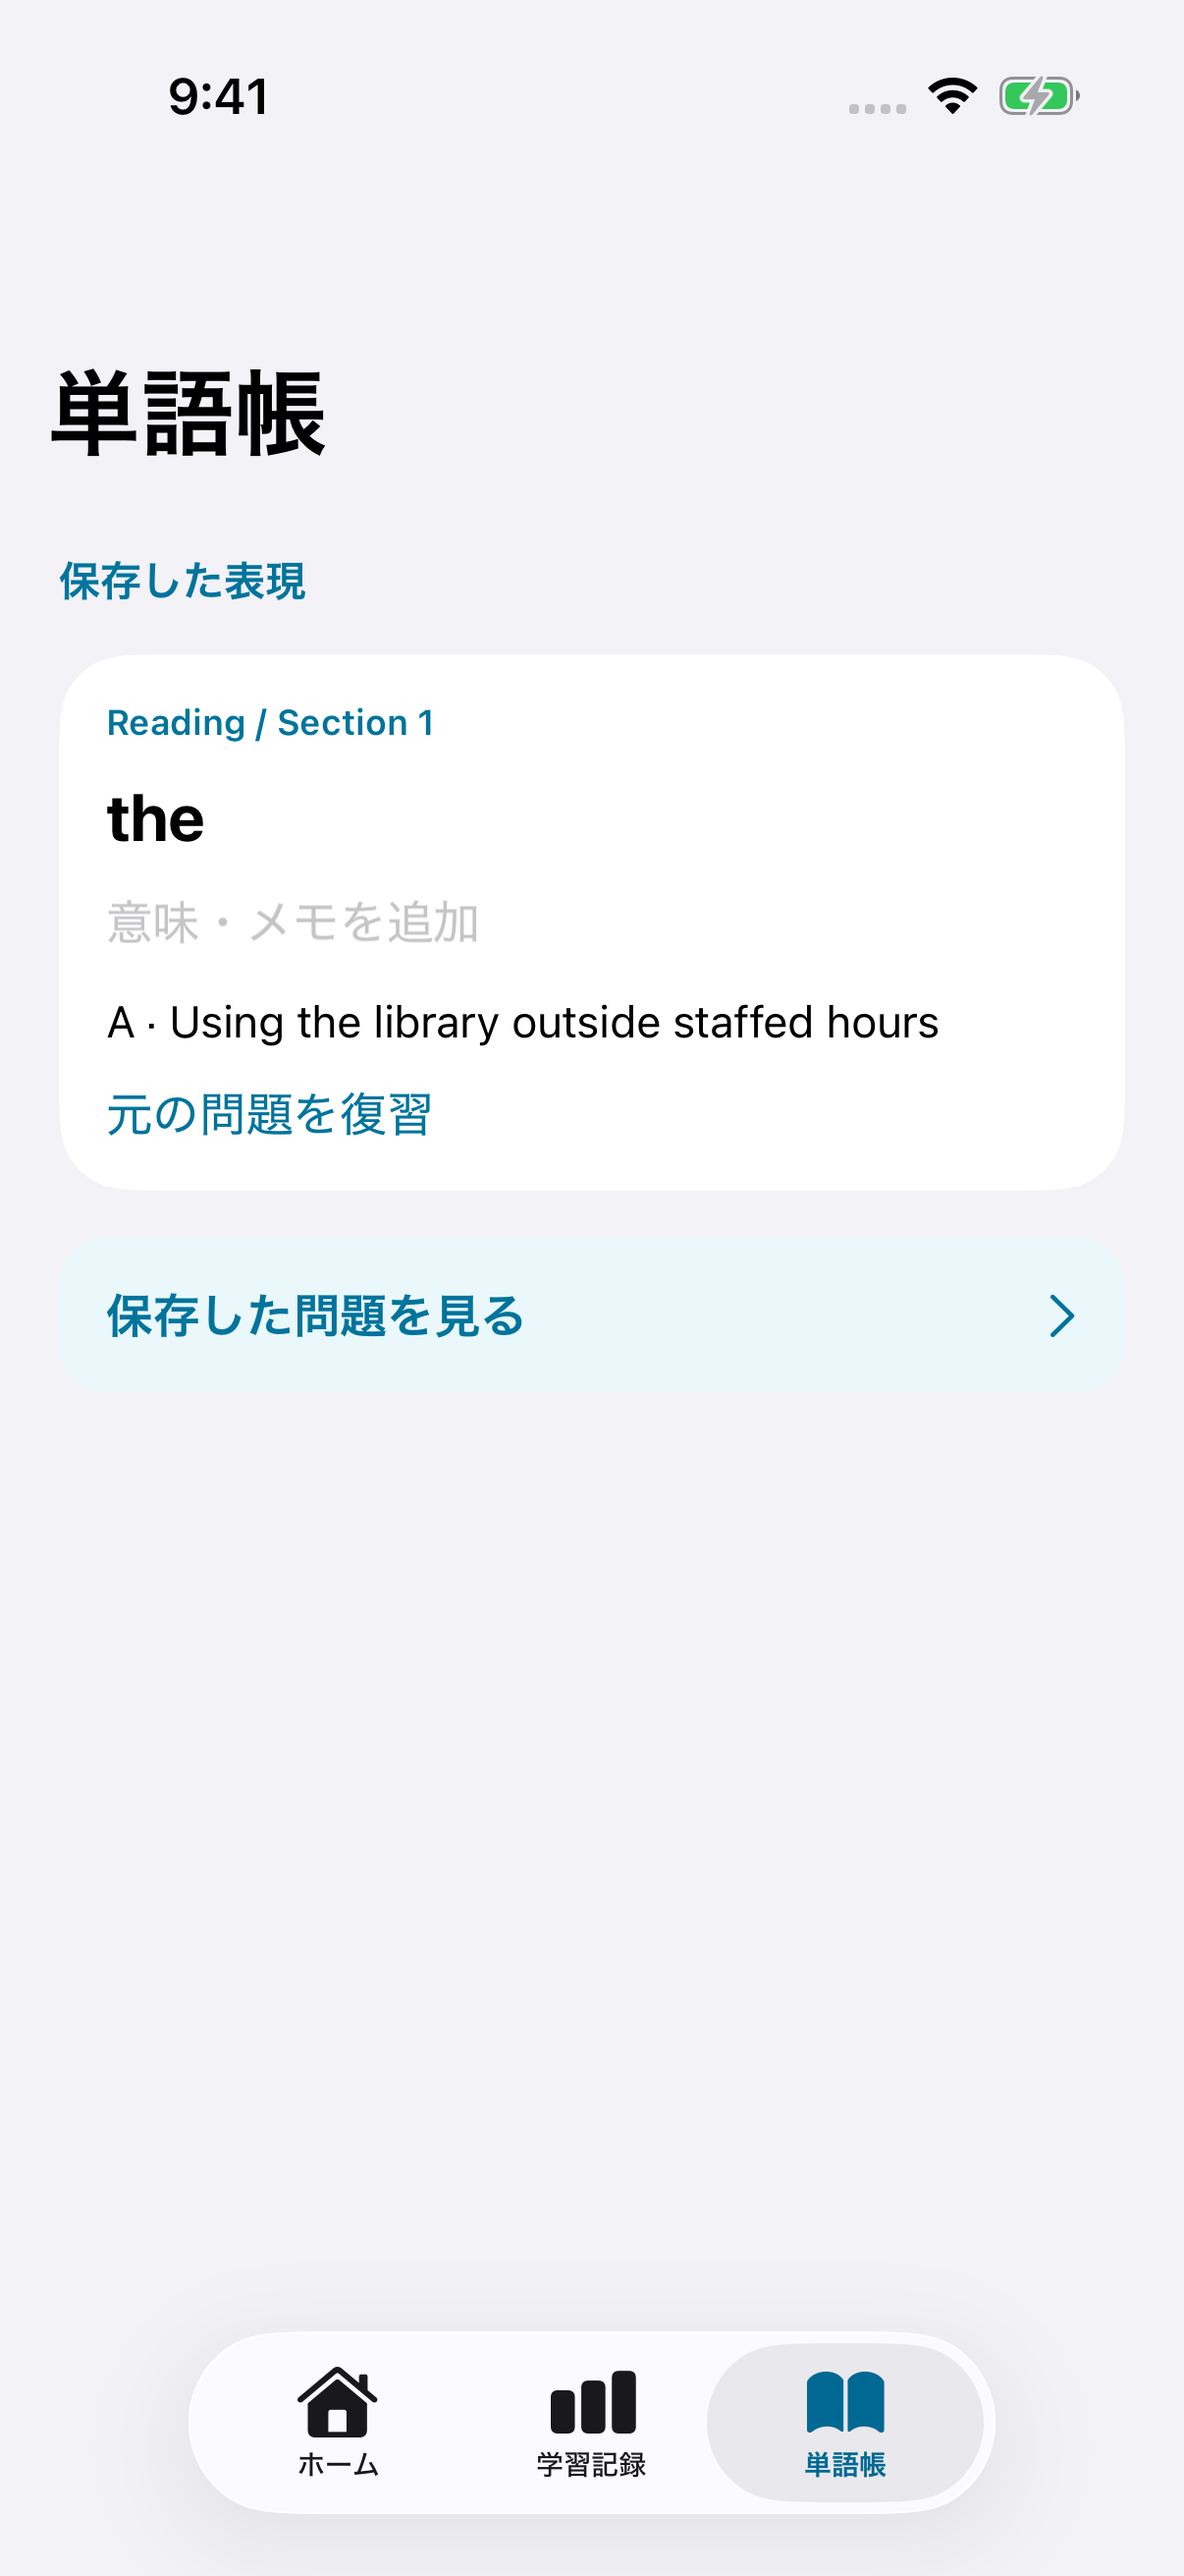
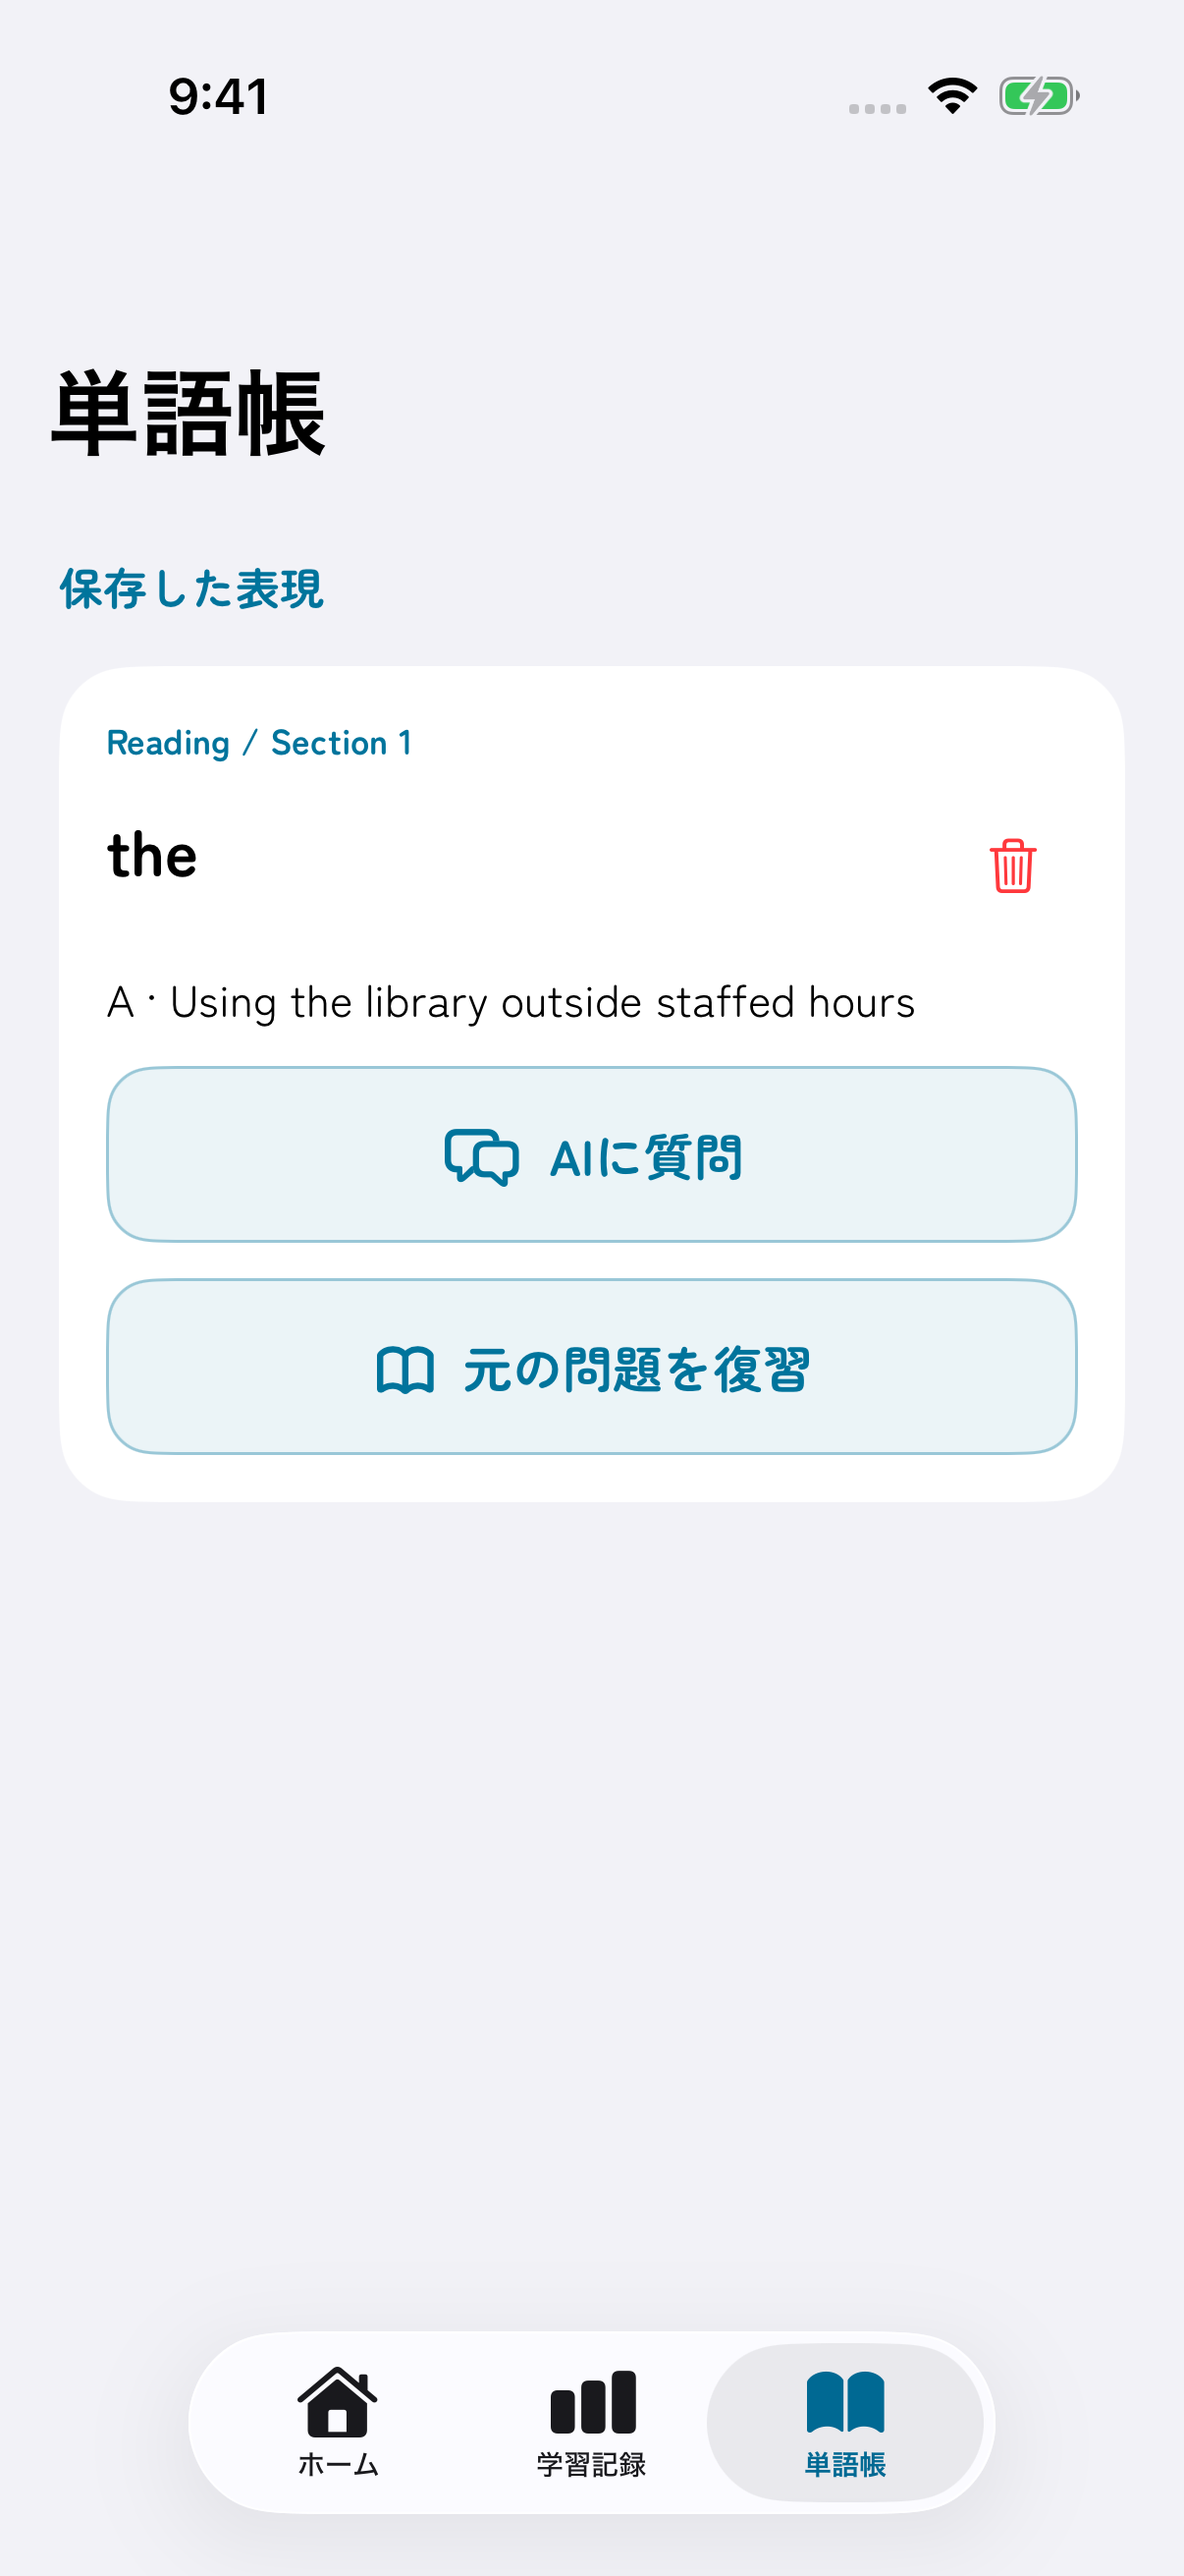
Document saved practice and verified UI flows [skip ci]

diff --git a/README.md b/README.md
@@ -9,7 +9,7 @@ Pocket IELTS is a native SwiftUI app for IELTS **General Training** practice on 
 <p align="center">
   <img src="Documentation/Screenshots/iphone-home.png" width="250" alt="iPhone home with four color-coded IELTS skills" />
   <img src="Documentation/Screenshots/iphone-selection.png" width="250" alt="Tap a word in a reading passage to save it with its original context" />
-  <img src="Documentation/Screenshots/iphone-vocabulary.png" width="250" alt="Vocabulary entry with a meaning field and a link to the original exercise" />
+  <img src="Documentation/Screenshots/iphone-vocabulary.png" width="250" alt="Vocabulary entry with AI questions, deletion and a link to the original exercise" />
 </p>
 
 ## A complete study loop
@@ -158,6 +158,8 @@ Scripts/generate-licenses.sh /path/to/DerivedData/SourcePackages
 CI uses LicensePlist 3.28.3 with a verified download checksum and regenerates notices from resolved package sources without network license lookups. `Scripts/check-licenses.py` checks package and font coverage. Commit regenerated `Resources/Licenses` when updating dependencies locally.
 
 ### Saved practice and audio playback
+
+<img src="Documentation/Screenshots/iphone-saved-questions.png" width="280" alt="Saved questions grouped by skill and section" />
 
 Saved questions are available from Home and the skill selection screens, grouped by Reading, Listening, Writing and Speaking, then by Section, Part or Task. Each skill shows its saved count.
 
